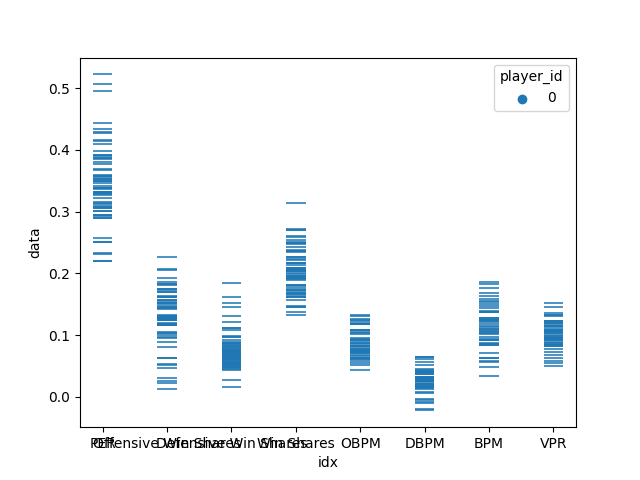
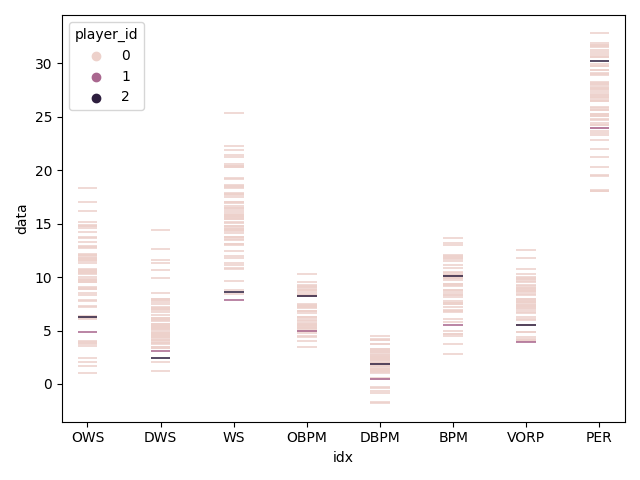
EMPTY

diff --git a/graph.py b/graph.py
@@ -52,8 +52,8 @@ def gen_by_year_dataset(data, tag):
     r_df = pd.DataFrame(dtm, columns=['idx', 'season', tag])
     return r_df
 
-tag_to_label = {"PTS": "Points", "REB" : "Rebounds", "AST" : "Assits", "STL" : "Steals", "BLK" : "Blocks", "FG_PCT": "Field Goal Percentage", "FG3_PCT" : "3 Point Percentage", "TS%" : "True Shooting Percentage", 'OWS' : 'Offensive Win Shares', 'TOV' : 'Turnovers', 'PF':'Personal Fouls', 'PER':'PER','OWS':'Offensive Win Shares',
-                'DWS':'Defensive Win Shares','WS':'Win Shares','OBPM':'OBPM','DBPM':'DBPM','BPM':'BPM','VORP':'VPR'}
+tag_to_label = {"PTS": "Points", "REB" : "Rebounds", "AST" : "Assits", "STL" : "Steals", "BLK" : "Blocks", "FG_PCT": "Field Goal Percentage", "FG3_PCT" : "3 Point Percentage", "TS%" : "True Shooting Percentage", 'OWS' : 'OWS', 'TOV' : 'Turnovers', 'PF':'Personal Fouls', 'PER':'PER','OWS':'OWS',
+                'DWS':'DWS','WS':'WS','OBPM':'OBPM','DBPM':'DBPM','BPM':'BPM','VORP':'VORP'}
 
 def beep(tag):
     ret_map = {'REB':'TRB', 'FG_PCT':'FG%', 'FG3_PCT':'3P%'}
@@ -115,12 +115,13 @@ def gen_scatter_plot_by_cat(cats, per_game, label):
     tatum = pd.read_csv('data/this_year/tatum.csv')
     luka = pd.read_csv('data/this_year/luka.csv')
 
-    r_df = add_player_info_to_cat(r_df, tatum, cats, True)
-    r_df = add_player_info_to_cat(r_df, luka, cats, True)
+    r_df = add_player_info_to_cat(r_df, tatum, cats, per_game)
+    r_df = add_player_info_to_cat(r_df, luka, cats, per_game)
 
     sp = sns.scatterplot(data=r_df, x='idx', y='data', hue='player_id', marker='_', s=200)
     sp.set_xticks(list(range(len(cats))))
     sp.set_xticklabels([tag_to_label[c] for c in cats])
+    plt.tight_layout()
     plt.savefig('data/graphs/by_cat/{}.png'.format(label))
     plt.clf()
 
@@ -146,5 +147,5 @@ BASIC_DEFENSIVE_COUNTING_STATS = (['BLK', 'STL'], 'Defensive Counting Stats')
 BASIC_BAD_STATS = (['TOV', 'PF'], 'Negative Counting Stats')
 ADVANCED_STATS = (['OWS','DWS','WS','OBPM','DBPM','BPM','VORP', 'PER'], 'Advanced Stats')
 
-gen_scatter_plot_by_year('TOV', True)
+
 gen_scatter_plot_by_cat(ADVANCED_STATS[0], False, ADVANCED_STATS[1])
